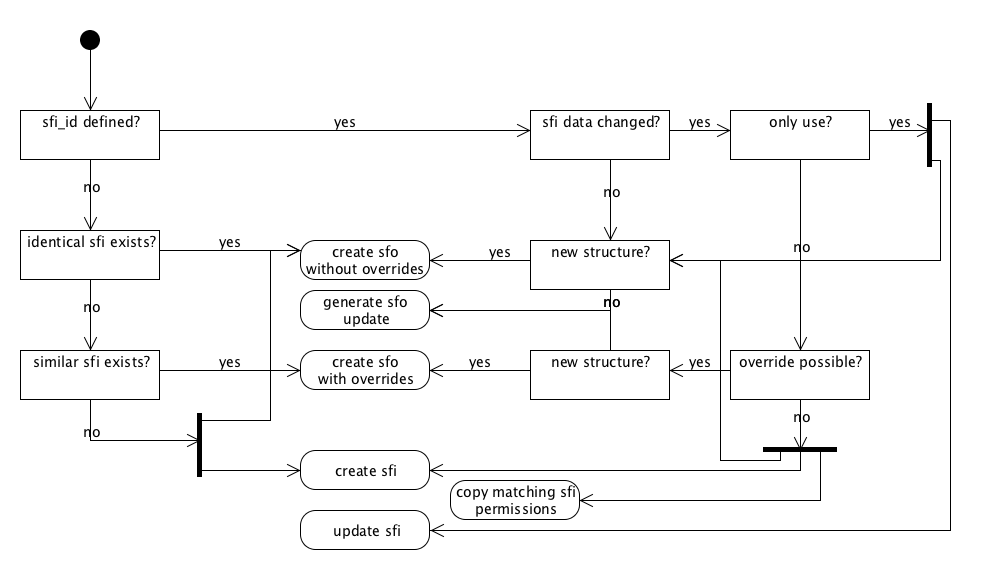
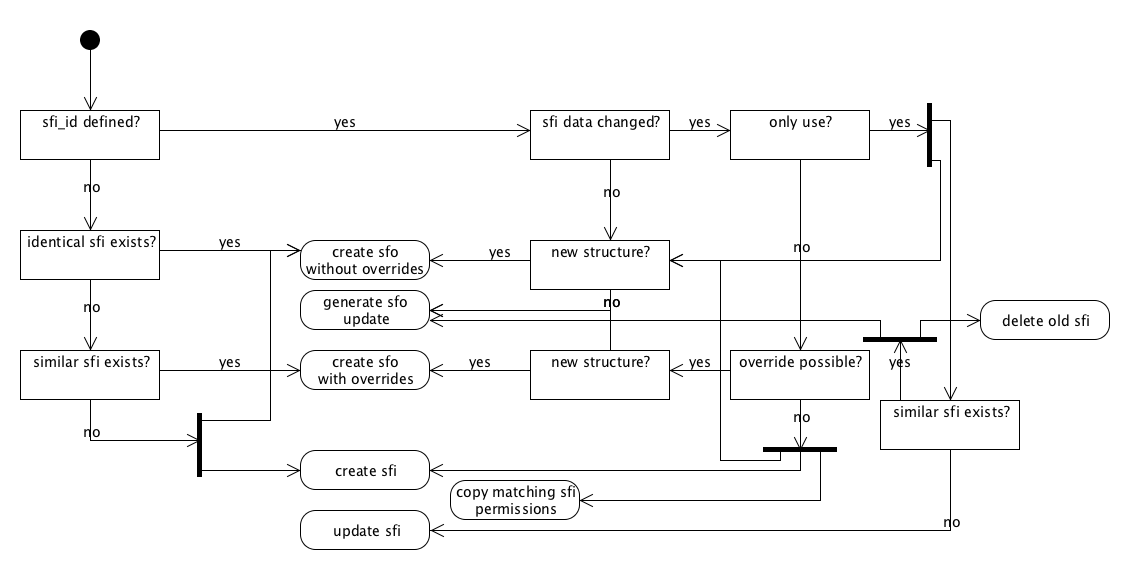
Upgrade to trash useless sfi after an sfo update

diff --git a/atimTools/form_builder/sqlGenerator.php b/atimTools/form_builder/sqlGenerator.php
@@ -29,9 +29,11 @@ $updateStructureField = "UPDATE structure_fields SET `public_identifier`=%s, `pl
 $insertIntoStructureFormatsHead = "INSERT INTO structure_formats(`structure_id`, `structure_field_id`, `display_column`, `display_order`, `language_heading`, `flag_override_label`, `language_label`, `flag_override_tag`, `language_tag`, `flag_override_help`, `language_help`, `flag_override_type`, `type`, `flag_override_setting`, `setting`, `flag_override_default`, `default`, `flag_add`, `flag_add_readonly`, `flag_edit`, `flag_edit_readonly`, `flag_search`, `flag_search_readonly`, `flag_datagrid`, `flag_datagrid_readonly`, `flag_index`, `flag_detail`) VALUES ";
 $insertIntoStructureFormats = "";
 $insertIntoStructureValidationsHead = "INSERT INTO structure_validations (`structure_field_id`, `rule`, `flag_empty`, `flag_required`, `on_action`, `language_message`) ";
+$deleteFromStructureFieldArray = array();
 $insertIntoStructureValidationsArray = array();
 $updateStructureFieldsArray = array();
 $updateStructureFormatsArray = array();
+$sfoDeleteIgnoreId = array();
 $sfOldIds = array();
 
 $structure_id_query = "SELECT id FROM structures WHERE alias='".$json->global->alias."'";
@@ -63,15 +65,29 @@ foreach($json->fields as $field){
 			}
 		}else if(getFieldUsageCount($field->sfi_id) < 2){
 			//we're alone
-			$updateStructureFieldsArray[] = getUpdateSfi($field);
-			if($sfo != NULL){
-				$str = getUpdateSfo($field, NULL, $sfo, true);//clear sfo overrides if needed
+			//check if a target exists
+			$tmp_similar_sfi = getSimilarSfi($field);
+			if(count($tmp_similar_sfi) > 0){
+				//target exists, update our sfo and scrap the old sfi
+				$sfoDeleteIgnoreId[] = $field->sfi_id;
+				$old_sfi = getStructureFieldById($field->sfi_id);
+				$deleteFromStructureFieldArray[] = "DELETE FROM structure_fields WHERE WHERE model='".$old_sfi['model']."' AND tablename='".$old_sfi['tablename']."' AND field='".$old_sfi['field']."' AND `type`='".$old_sfi['type']."' AND structure_value_domain".castStructureValueDomain($old_sfi['structure_value_domain'], true).")";
+				$str = getUpdateSfo($field, $tmp_similar_sfi, $sfo, false);//clear sfo overrides if needed
 				if(strlen($str) > 0){
 					$updateStructureFormatsArray[] = $str;
 				}
+				$field->sfi_id = $tmp_similar_sfi['data']['id'];
 			}else{
-				//new sfo
-				$insertIntoStructureFormats .= getInsertIntoSfo($field, $structure_id_query, $sameSfi, $field).LS;
+				$updateStructureFieldsArray[] = getUpdateSfi($field);
+				if($sfo != NULL){
+					$str = getUpdateSfo($field, NULL, $sfo, true);//clear sfo overrides if needed
+					if(strlen($str) > 0){
+						$updateStructureFormatsArray[] = $str;
+					}
+				}else{
+					//new sfo
+					$insertIntoStructureFormats .= getInsertIntoSfo($field, $structure_id_query, $sameSfi, $field).LS;
+				}
 			}
 		}else if($similarSfi['data']['id'] == $field->sfi_id){
 			//override is possible
@@ -141,10 +157,11 @@ foreach($updateStructureFormatsArray as $query){
 }
 
 $query = "SELECT id FROM structure_formats WHERE structure_id='".$structureId."' AND structure_field_id NOT IN(";
+$ids = array();
 foreach($json->fields as $field){
-	$query .= "'".$field->sfi_id."', ";
+	$sfoDeleteIgnoreId[] = $field->sfi_id;
 }
-$query = substr($query, 0, strlen($query) - 2).");".LS;
+$query .= implode(", ", $sfoDeleteIgnoreId).");".LS;
 $result = $db->query($query) or die("Query failed D ".$db->error);
 $sfIds = array();
 while($row = $result->fetch_assoc()){
@@ -159,13 +176,18 @@ if(sizeof($sfIds) > 0){
 			$where_part = "";
 			foreach($row as $key => $val){
 				//NULL values are not possible in that table
-				if($key != 'id'){
+				if($key != 'id' && $key != 'structure_id' && $key != 'structure_field_id'){
 					$where_part .= "`".$key."`='".$val."' AND ";
 				}
 			}
 			echo($delete_query.substr($where_part, 0, -4).";\n");
 		}
 	}
+}
+
+if(count($deleteFromStructureFieldArray) > 0){
+	echo("-- Delete obsolete structure fields\n");
+	echo(implode("\n", $deleteFromStructureFieldArray)."\n");
 }
 
 function formatField($field){
@@ -368,5 +390,10 @@ function getInsertStructureValidationsIfAny($field){
 		$query = null;
 	}	
 	return $query;
+}
+
+function getStructureFieldById($id){
+	$query = "SELECT * FROM structure_fields WHERE id=".$id;
+	return getDataFromQuery($query);
 }
 ?>
